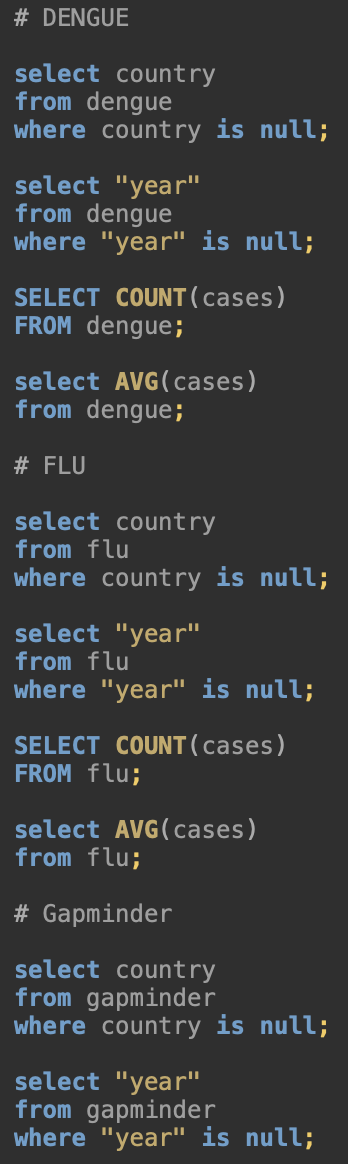
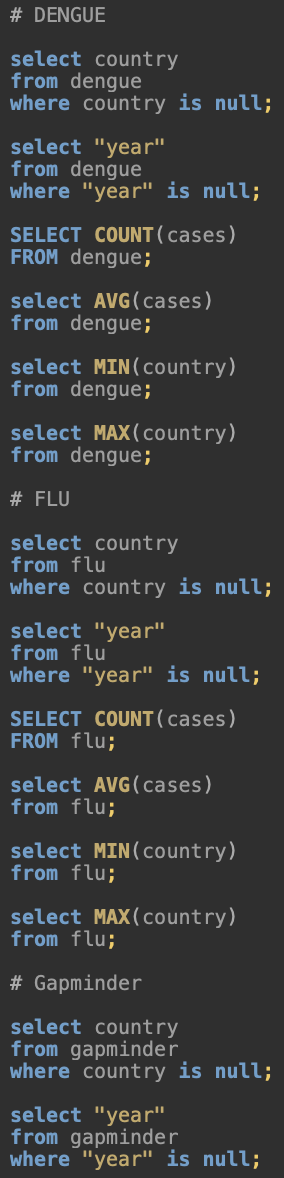
?

diff --git a/docs/relational-data-and-databases-7.html b/docs/relational-data-and-databases-7.html
@@ -178,7 +178,7 @@ div.csl-indent {
 </ul></li>
 <li class="chapter" data-level="" data-path="relational-data-and-databases-7.html"><a href="relational-data-and-databases-7.html"><i class="fa fa-check"></i>Relational data and databases (7)</a>
 <ul>
-<li class="chapter" data-level="0.1" data-path="relational-data-and-databases-7.html"><a href="relational-data-and-databases-7.html#introduction-1"><i class="fa fa-check"></i><b>0.1</b> Introduction</a></li>
+<li class="chapter" data-level="" data-path="relational-data-and-databases-7.html"><a href="relational-data-and-databases-7.html#introduction-1"><i class="fa fa-check"></i>Introduction</a></li>
 </ul></li>
 <li class="chapter" data-level="" data-path="r-packages-8.html"><a href="r-packages-8.html"><i class="fa fa-check"></i>R packages (8)</a></li>
 <li class="chapter" data-level="" data-path="rmarkdown-parameters-9.html"><a href="rmarkdown-parameters-9.html"><i class="fa fa-check"></i>Rmarkdown parameters (9)</a></li>
@@ -202,8 +202,8 @@ div.csl-indent {
             <section class="normal" id="section-">
 <div id="relational-data-and-databases-7" class="section level1 unnumbered hasAnchor">
 <h1>Relational data and databases (7)<a href="relational-data-and-databases-7.html#relational-data-and-databases-7" class="anchor-section" aria-label="Anchor link to header"></a></h1>
-<div id="introduction-1" class="section level2 hasAnchor" number="0.1">
-<h2><span class="header-section-number">0.1</span> Introduction<a href="relational-data-and-databases-7.html#introduction-1" class="anchor-section" aria-label="Anchor link to header"></a></h2>
+<div id="introduction-1" class="section level2 unnumbered hasAnchor">
+<h2>Introduction<a href="relational-data-and-databases-7.html#introduction-1" class="anchor-section" aria-label="Anchor link to header"></a></h2>
 <p>This assignment was focused on learning the basics of the SQL language and how to work this around relational data and databases. These are collections of information stored in separate tables with underlying relations to create an easy overview of relations between different data structures.</p>
 <p>Starting by creating three data frames out of files and making them tidy.</p>
 <div class="sourceCode" id="cb1"><pre class="sourceCode r"><code class="sourceCode r"><span id="cb1-1"><a href="relational-data-and-databases-7.html#cb1-1" aria-hidden="true" tabindex="-1"></a><span class="fu">library</span>(dslabs)</span>
@@ -216,7 +216,8 @@ div.csl-indent {
 ## ── Conflicts ────────────────────────────────────────── tidyverse_conflicts() ──
 ## ✖ dplyr::filter() masks stats::filter()
 ## ✖ dplyr::lag()    masks stats::lag()</code></pre>
-<div class="sourceCode" id="cb3"><pre class="sourceCode r"><code class="sourceCode r"><span id="cb3-1"><a href="relational-data-and-databases-7.html#cb3-1" aria-hidden="true" tabindex="-1"></a><span class="fu">library</span>(DBI)</span></code></pre></div>
+<div class="sourceCode" id="cb3"><pre class="sourceCode r"><code class="sourceCode r"><span id="cb3-1"><a href="relational-data-and-databases-7.html#cb3-1" aria-hidden="true" tabindex="-1"></a><span class="fu">library</span>(DBI)</span>
+<span id="cb3-2"><a href="relational-data-and-databases-7.html#cb3-2" aria-hidden="true" tabindex="-1"></a><span class="fu">library</span>(dplyr)</span></code></pre></div>
 <div class="sourceCode" id="cb4"><pre class="sourceCode r"><code class="sourceCode r"><span id="cb4-1"><a href="relational-data-and-databases-7.html#cb4-1" aria-hidden="true" tabindex="-1"></a><span class="co"># The flu</span></span>
 <span id="cb4-2"><a href="relational-data-and-databases-7.html#cb4-2" aria-hidden="true" tabindex="-1"></a><span class="do">## Import, first 11 lines are metadata</span></span>
 <span id="cb4-3"><a href="relational-data-and-databases-7.html#cb4-3" aria-hidden="true" tabindex="-1"></a>flu_df <span class="ot">&lt;-</span> <span class="fu">read_csv</span>(<span class="st">&quot;files/flu_data.csv&quot;</span>, <span class="at">skip =</span> <span class="dv">11</span>)</span></code></pre></div>
@@ -299,25 +300,47 @@ div.csl-indent {
 <span id="cb30-7"><a href="relational-data-and-databases-7.html#cb30-7" aria-hidden="true" tabindex="-1"></a><span class="fu">saveRDS</span>(flu_df_tidy, <span class="at">file=</span><span class="st">&quot;files/flu.rds&quot;</span>)</span>
 <span id="cb30-8"><a href="relational-data-and-databases-7.html#cb30-8" aria-hidden="true" tabindex="-1"></a><span class="fu">saveRDS</span>(dengue_df_tidy, <span class="at">file=</span><span class="st">&quot;files/dengue.rds&quot;</span>)</span>
 <span id="cb30-9"><a href="relational-data-and-databases-7.html#cb30-9" aria-hidden="true" tabindex="-1"></a><span class="fu">saveRDS</span>(gapminder, <span class="at">file=</span><span class="st">&quot;files/gapminder.rds&quot;</span>)</span></code></pre></div>
-<p>The tables were inserted into a database in DBeaver for inspection.</p>
+<p>DBeaver and R were connected (my real password is hidden) and the tables were inserted into the ‘workflowsdb’ database in DBeaver for inspection.</p>
 <div class="sourceCode" id="cb31"><pre class="sourceCode r"><code class="sourceCode r"><span id="cb31-1"><a href="relational-data-and-databases-7.html#cb31-1" aria-hidden="true" tabindex="-1"></a>con <span class="ot">&lt;-</span> <span class="fu">dbConnect</span>(RPostgres<span class="sc">::</span><span class="fu">Postgres</span>(), </span>
 <span id="cb31-2"><a href="relational-data-and-databases-7.html#cb31-2" aria-hidden="true" tabindex="-1"></a>                 <span class="at">dbname =</span> <span class="st">&quot;workflowsdb&quot;</span>, </span>
 <span id="cb31-3"><a href="relational-data-and-databases-7.html#cb31-3" aria-hidden="true" tabindex="-1"></a>                 <span class="at">host=</span><span class="st">&quot;localhost&quot;</span>, </span>
 <span id="cb31-4"><a href="relational-data-and-databases-7.html#cb31-4" aria-hidden="true" tabindex="-1"></a>                 <span class="at">port=</span><span class="st">&quot;5432&quot;</span>, </span>
 <span id="cb31-5"><a href="relational-data-and-databases-7.html#cb31-5" aria-hidden="true" tabindex="-1"></a>                 <span class="at">user=</span><span class="st">&quot;postgres&quot;</span>, </span>
-<span id="cb31-6"><a href="relational-data-and-databases-7.html#cb31-6" aria-hidden="true" tabindex="-1"></a>                 <span class="at">password=</span><span class="st">&quot;Marlie99.&quot;</span>)</span></code></pre></div>
+<span id="cb31-6"><a href="relational-data-and-databases-7.html#cb31-6" aria-hidden="true" tabindex="-1"></a>                 <span class="at">password=</span><span class="st">&quot;password&quot;</span>)</span></code></pre></div>
 <div class="sourceCode" id="cb32"><pre class="sourceCode r"><code class="sourceCode r"><span id="cb32-1"><a href="relational-data-and-databases-7.html#cb32-1" aria-hidden="true" tabindex="-1"></a><span class="fu">dbWriteTable</span>(con, <span class="st">&quot;gapminder&quot;</span>, gapminder)</span>
 <span id="cb32-2"><a href="relational-data-and-databases-7.html#cb32-2" aria-hidden="true" tabindex="-1"></a><span class="fu">dbWriteTable</span>(con, <span class="st">&quot;flu&quot;</span>, flu_df_tidy)</span>
 <span id="cb32-3"><a href="relational-data-and-databases-7.html#cb32-3" aria-hidden="true" tabindex="-1"></a><span class="fu">dbWriteTable</span>(con, <span class="st">&quot;dengue&quot;</span>, dengue_df_tidy)</span></code></pre></div>
 <p>Now that the tables are imported, i checked a couple of things.
-Dengue has no “NULL” variables in country and year, there are 6263 cases in the data set and the average amount of cases is 0.14.
-The Flu has no “NULL” variables in country and year, there are 17266 cases in the data set and the average amount of cases is 8.74.
-Gapminder had no “NULL” variables in country and year.</p>
-<p>The information is obtained by the following SQL code in DBeaver:</p>
+Dengue has no “NULL” variables in country and year, 6263 cases in the data set and the average amount of cases is 0.14 with a standard deviation of 0.14. The country with the least amount of cases is Argentina with 0 cases and the country with the most is Venezuela with 1 case.
+The flu has no “NULL variables in country and year, 17266 cases in the data set and the average amount of cases is 473.74 with a standard deviation of 768.95. The country with the least amount of cases is Argentina with 0 cases and the country with the most is Uruguay 10555 cases.</p>
+<p>Gapminder had no “NULL” variables in country and year.</p>
+<p>The information is obtained by the following R and SQL code:</p>
+<div class="sourceCode" id="cb33"><pre class="sourceCode r"><code class="sourceCode r"><span id="cb33-1"><a href="relational-data-and-databases-7.html#cb33-1" aria-hidden="true" tabindex="-1"></a><span class="co"># Dengue</span></span>
+<span id="cb33-2"><a href="relational-data-and-databases-7.html#cb33-2" aria-hidden="true" tabindex="-1"></a></span>
+<span id="cb33-3"><a href="relational-data-and-databases-7.html#cb33-3" aria-hidden="true" tabindex="-1"></a><span class="fu">min</span>(dengue_df_tidy<span class="sc">$</span>cases) <span class="co"># 0</span></span></code></pre></div>
+<pre><code>## [1] 0</code></pre>
+<div class="sourceCode" id="cb35"><pre class="sourceCode r"><code class="sourceCode r"><span id="cb35-1"><a href="relational-data-and-databases-7.html#cb35-1" aria-hidden="true" tabindex="-1"></a><span class="fu">max</span>(dengue_df_tidy<span class="sc">$</span>cases) <span class="co"># 1</span></span></code></pre></div>
+<pre><code>## [1] 1</code></pre>
+<div class="sourceCode" id="cb37"><pre class="sourceCode r"><code class="sourceCode r"><span id="cb37-1"><a href="relational-data-and-databases-7.html#cb37-1" aria-hidden="true" tabindex="-1"></a><span class="fu">mean</span>(dengue_df_tidy<span class="sc">$</span>cases) <span class="co"># 0.14</span></span></code></pre></div>
+<pre><code>## [1] 0.1389711</code></pre>
+<div class="sourceCode" id="cb39"><pre class="sourceCode r"><code class="sourceCode r"><span id="cb39-1"><a href="relational-data-and-databases-7.html#cb39-1" aria-hidden="true" tabindex="-1"></a><span class="fu">sd</span>(dengue_df_tidy<span class="sc">$</span>cases) <span class="co"># 0.14</span></span></code></pre></div>
+<pre><code>## [1] 0.1389235</code></pre>
+<div class="sourceCode" id="cb41"><pre class="sourceCode r"><code class="sourceCode r"><span id="cb41-1"><a href="relational-data-and-databases-7.html#cb41-1" aria-hidden="true" tabindex="-1"></a><span class="co"># Flu</span></span>
+<span id="cb41-2"><a href="relational-data-and-databases-7.html#cb41-2" aria-hidden="true" tabindex="-1"></a></span>
+<span id="cb41-3"><a href="relational-data-and-databases-7.html#cb41-3" aria-hidden="true" tabindex="-1"></a><span class="fu">min</span>(flu_df_tidy<span class="sc">$</span>cases) <span class="co"># 0</span></span></code></pre></div>
+<pre><code>## [1] 0</code></pre>
+<div class="sourceCode" id="cb43"><pre class="sourceCode r"><code class="sourceCode r"><span id="cb43-1"><a href="relational-data-and-databases-7.html#cb43-1" aria-hidden="true" tabindex="-1"></a><span class="fu">max</span>(flu_df_tidy<span class="sc">$</span>cases) <span class="co"># 10555</span></span></code></pre></div>
+<pre><code>## [1] 10555</code></pre>
+<div class="sourceCode" id="cb45"><pre class="sourceCode r"><code class="sourceCode r"><span id="cb45-1"><a href="relational-data-and-databases-7.html#cb45-1" aria-hidden="true" tabindex="-1"></a><span class="fu">mean</span>(flu_df_tidy<span class="sc">$</span>cases) <span class="co"># 473.74</span></span></code></pre></div>
+<pre><code>## [1] 473.7355</code></pre>
+<div class="sourceCode" id="cb47"><pre class="sourceCode r"><code class="sourceCode r"><span id="cb47-1"><a href="relational-data-and-databases-7.html#cb47-1" aria-hidden="true" tabindex="-1"></a><span class="fu">sd</span>(flu_df_tidy<span class="sc">$</span>cases) <span class="co"># 768.95</span></span></code></pre></div>
+<pre><code>## [1] 768.9549</code></pre>
 <p><img src="images/SQL_inspection.jpg"
      width="300" 
-     height="600" /></p>
-<p>Inspect the contents of the tables with SQL (in DBeaver) and save the SQL script.</p>
+     height="800" /></p>
+<p>Figure 2: SQL code of data inspection.</p>
+<p>Load the gapminder data in R and change the dataframe in such as way that you could join it to dengue and flue.</p>
+<p>Save this clean gapminder data in the “workflowsdb” database</p>
 
 </div>
 </div>

diff --git a/docs/404.html b/docs/404.html
@@ -178,7 +178,7 @@ div.csl-indent {
 </ul></li>
 <li class="chapter" data-level="" data-path="relational-data-and-databases-7.html"><a href="relational-data-and-databases-7.html"><i class="fa fa-check"></i>Relational data and databases (7)</a>
 <ul>
-<li class="chapter" data-level="0.1" data-path="relational-data-and-databases-7.html"><a href="relational-data-and-databases-7.html#introduction-1"><i class="fa fa-check"></i><b>0.1</b> Introduction</a></li>
+<li class="chapter" data-level="" data-path="relational-data-and-databases-7.html"><a href="relational-data-and-databases-7.html#introduction-1"><i class="fa fa-check"></i>Introduction</a></li>
 </ul></li>
 <li class="chapter" data-level="" data-path="r-packages-8.html"><a href="r-packages-8.html"><i class="fa fa-check"></i>R packages (8)</a></li>
 <li class="chapter" data-level="" data-path="rmarkdown-parameters-9.html"><a href="rmarkdown-parameters-9.html"><i class="fa fa-check"></i>Rmarkdown parameters (9)</a></li>
